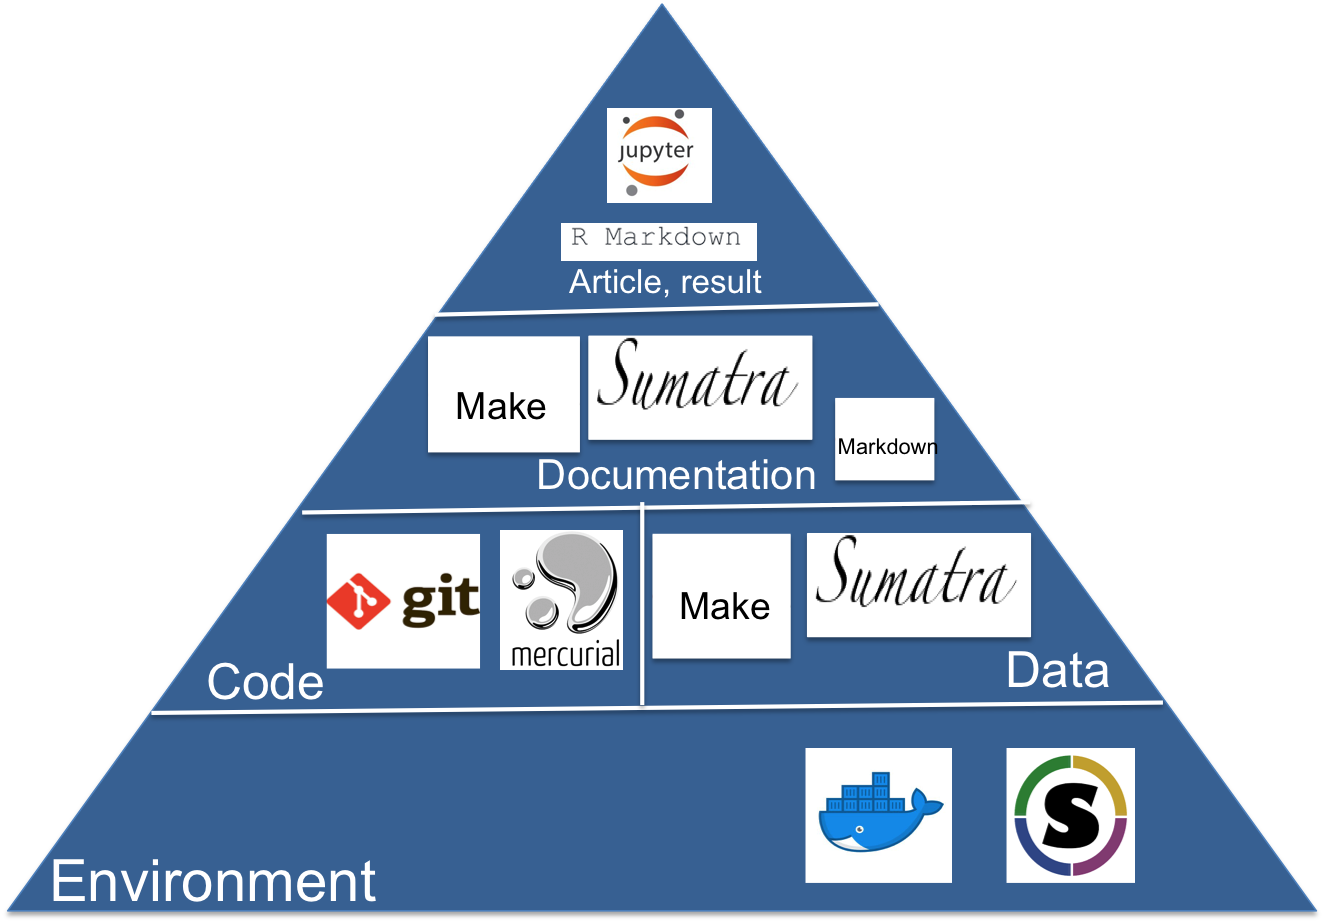
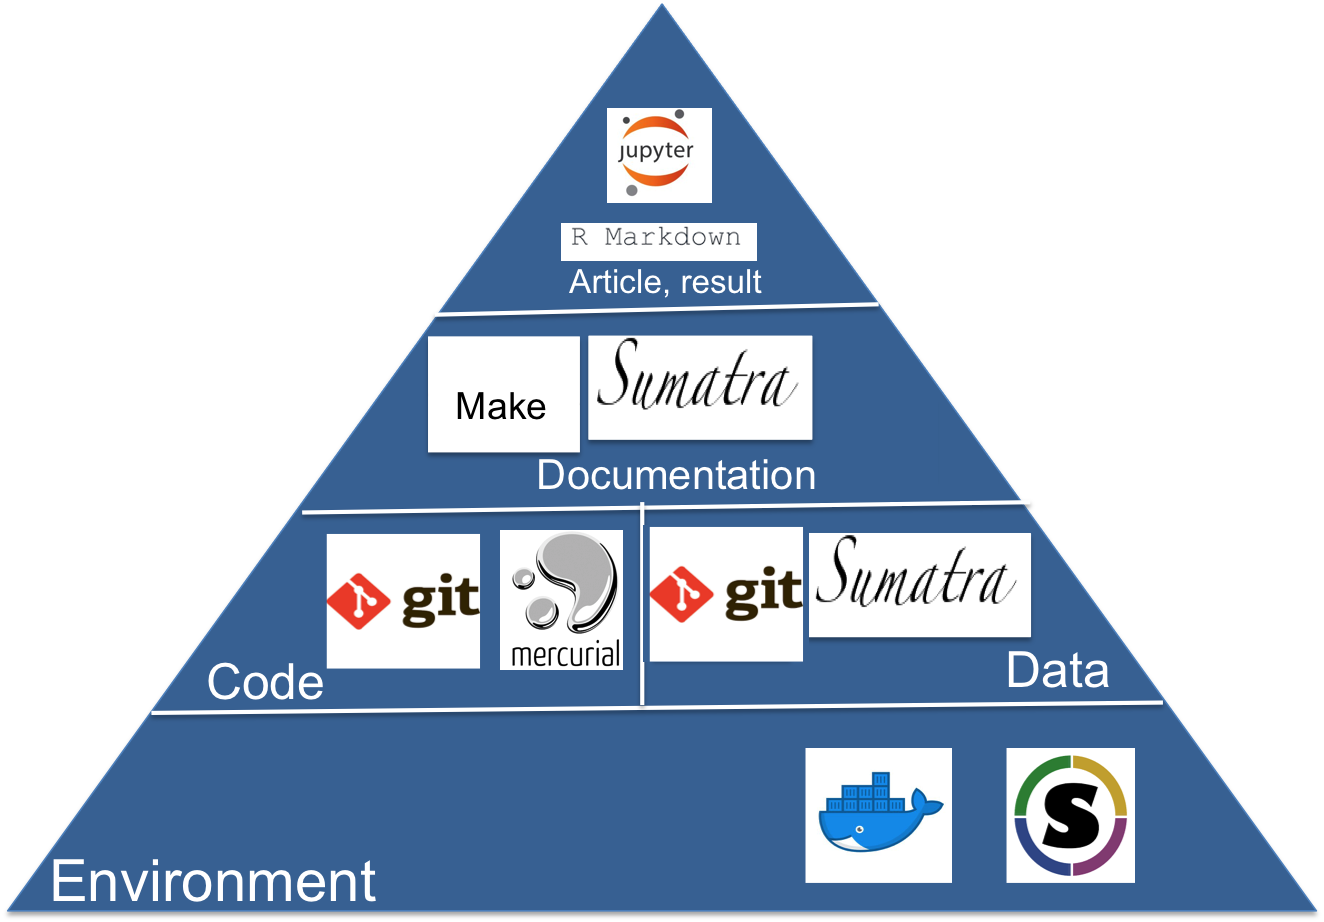
Fine-tuning the episodes
added keypoints, adjusting indentation and fixing some typos

Changed region(s): [[0.4645, 0.5466, 0.6193, 0.7289], [0.6193, 0.4252, 0.7122, 0.5466]]

diff --git a/_episodes/03-reproducible-workflow.md b/_episodes/03-reproducible-workflow.md
@@ -9,12 +9,16 @@ questions:
 objectives:
   - "Get a basic idea of different tools that can be used to create reproducible workflow"
   - "You can incorporate some of these tools in your research lifecycle"
-
+keypoints:
+  - Create useful project directory structure
+  - Setup version control
+  - Preserve the workflow of generating results
+  
 ---
 
 ## Suggestions for creating a reproducible workflow
 
-One should always be able to figure out precisely what data and what code were used to generate the results.
+One should always be able to figure out precisely what data and what code were used to generate what results.
  
 
 ### Create useful directory structure for project
@@ -37,7 +41,7 @@ project_name/
 ```
 
 - Let's create an example project that will count 10 most frequent characters in a given text and plots a bar chart of the characters
-- The example is in this [repository](https://github.com/Vathasav/character-count-example). Clone it.   
+- To follow along, clone this [repository](https://github.com/Vathasav/character-count)   
 
 
 The example project directory will be like this:
@@ -129,20 +133,21 @@ Let us look at our workflow:
 - As projects grow, it is quite difficult to keep track of all the workflow steps and how they fit together
 
 ### Documenting and automating the workflow
-- It is difficult to track the workflow:
-    -  How we have generated/created the results in the first case
-    -  What steps are followed in creating the results
 
-- Provenance of workflow
-    - Provides a historical record of data, its origins and causal relationships
-    - Can use it to ensure quality of data based on ancestral data, or find sources of errors
-    - Allows automated recreation of data
+##### It is difficult to track the workflow:
+   -  How we have generated/created the results in the first case
+   -  What steps are followed in creating the results
 
-- Multiple tools are available for documenting and managing the workflow
-    - [make](https://www.gnu.org/software/make/), can be used to track the steps we have followed in generating the data
-    - [Sumatra](http://sumatra.readthedocs.io/en/0.7.4/), manages and tracks numerical simulations.
-    - [Snakemake](http://snakemake.readthedocs.io/en/stable/), a workflow management system to create reproducible and scalable data analyses.
-    - See [additional tools](#workflow-tools) 
+#### Provenance of workflow
+   - Provides a historical record of data, its origins and causal relationships
+   - Can use it to ensure quality of data based on ancestral data, or find sources of errors
+   - Allows automated recreation of data
+
+#### Multiple tools are available for documenting and managing the workflow
+   - [make](https://www.gnu.org/software/make/), can be used to track the steps we have followed in generating the data
+   - [Sumatra](http://sumatra.readthedocs.io/en/0.7.4/), manages and tracks numerical simulations.
+   - [Snakemake](http://snakemake.readthedocs.io/en/stable/), a workflow management system to create reproducible and scalable data analyses.
+   - See [additional tools](#workflow-tools) 
    
 #### Using make to automate workflow
 

diff --git a/_episodes/04-containers-for-reproducible-research.md b/_episodes/04-containers-for-reproducible-research.md
@@ -8,7 +8,9 @@ questions:
    - "How do you communicate different versions of dependencies you need?" 
 objectives:
   - "Get a basic idea of using containers to capture research environments"
- 
+keypoints:
+  - Use containers to share research environments
+
 ---
 
 # Containers
@@ -36,7 +38,7 @@ or daemon, which, in turn, does all the work.
 <img src="/reproducible-research/img/docker_architecture.svg" style="height: 400px;"/>
 
 - Docker client
-   - End user uses docker client to communicate with docker engine 
+   - End user uses docker client to communicate with docker daemon 
 - Docker daemon
    - Executes the commands sent to the docker client. It manages containers, images, builds, etc. <!--The Docker daemon (dockerd) listens for Docker API requests and manages Docker objects such as images, containers, networks, and volumes.--> 
 - Docker registry
@@ -81,7 +83,7 @@ docker stop container_id or name
 - The Dockerfile contains a series of instructions paired with arguments
 
 ```vim
-#version 0.0.1
+#version 0.1
 FROM ubuntu:16.04 (good to mention the image version being used)
 MAINTAINER Sri Harsha Vathsavayi "sriharsha.vathsavayi@csc.fi"
 RUN apt-get update
@@ -101,7 +103,7 @@ CMD -  specifies the command to run when a container is launched
   
 Let's create a Dockerfile for our example project
 ```vim
-#version 0.0.1
+#version 0.1
 FROM ubuntu:16.04
 MAINTAINER Your name "email address"
      
@@ -121,7 +123,7 @@ COPY ./ /opt/character_count/
 WORKDIR /opt/character_count
   
 # default command to execute when container starts 
-CMD ["/bin/bash"]
+CMD /bin/bash
   ```
 
 At this point, our project directory will be like this:
@@ -144,7 +146,7 @@ character_count/
 We can build the image by running docker build in the character_count directory containing Dockerfile 
 
  ```bash
-docker build -t <dockerhub-username>/character_count:0.0.1 .
+docker build -t <dockerhub-username>/character_count:0.1 .
   ``` 
 
 Check if the image is created

diff --git a/_episodes/02-what-is-reproducible-research.md b/_episodes/02-what-is-reproducible-research.md
@@ -25,7 +25,7 @@ objectives:
 ## Main drawbacks of not being able to reproduce research 
 - Not able to apply the Software/Code used by the original investigator
 - Not able to use the Data used by the author
-- No documentation on how data is generated and how the experiment is conducted
+- Not enough documentation on how data is generated and how the experiment is conducted
 - Not able to create software environment (with different libraries) that was originally used to generate results
 
 <!-- - Using same code and data are not necessarily enough for reproducibility. The whole environment needs to be captured. 
@@ -36,7 +36,7 @@ objectives:
 - Code level
 - Data level
 - Environment level
-- Documentation level
+- Documentation level (documenting the workflow)
 
 ---
 ## Multiple tools are available
@@ -44,7 +44,8 @@ objectives:
 <img src="/reproducible-research/img/reproducibility_tools.png" style="height: 400px;"/>
 
 - Git, mercurial (code level)
-- make, sumatra (data / documentation level)
+- Git or mercurial, sumatra (data level)
+- make, sumatra (documentation level)
 - Containers (environment level)
 - Jupyter notebooks, R Markdown (article/report level)
  
